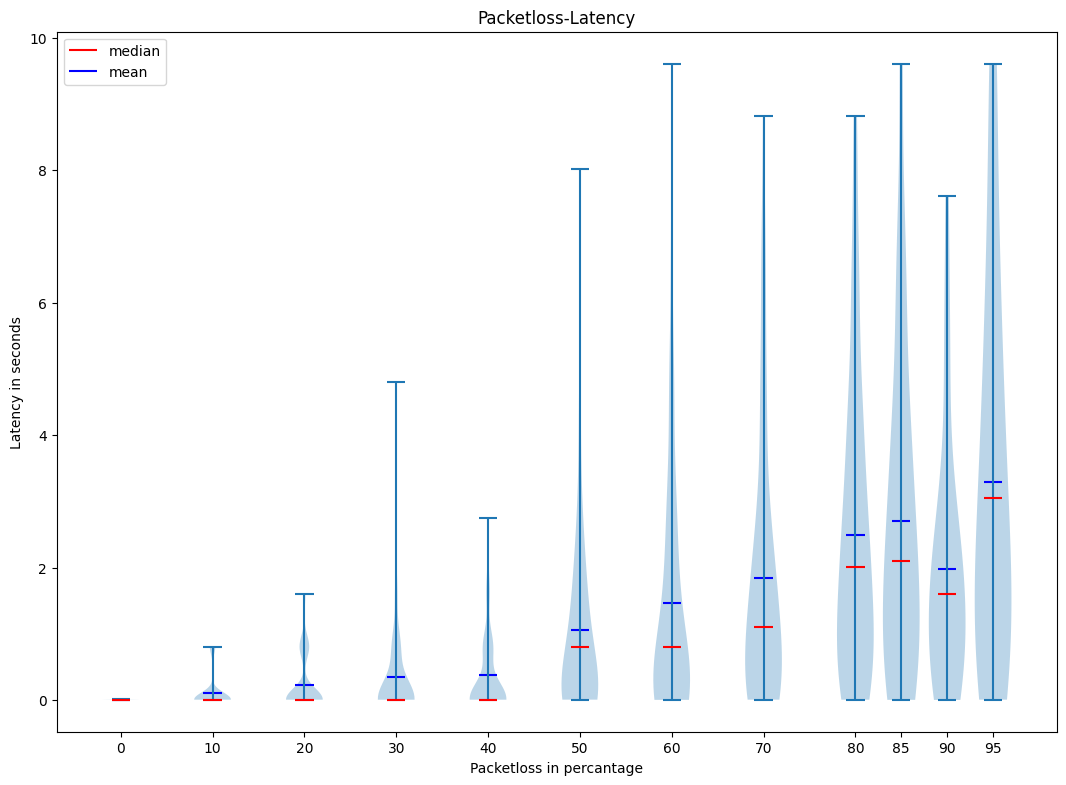
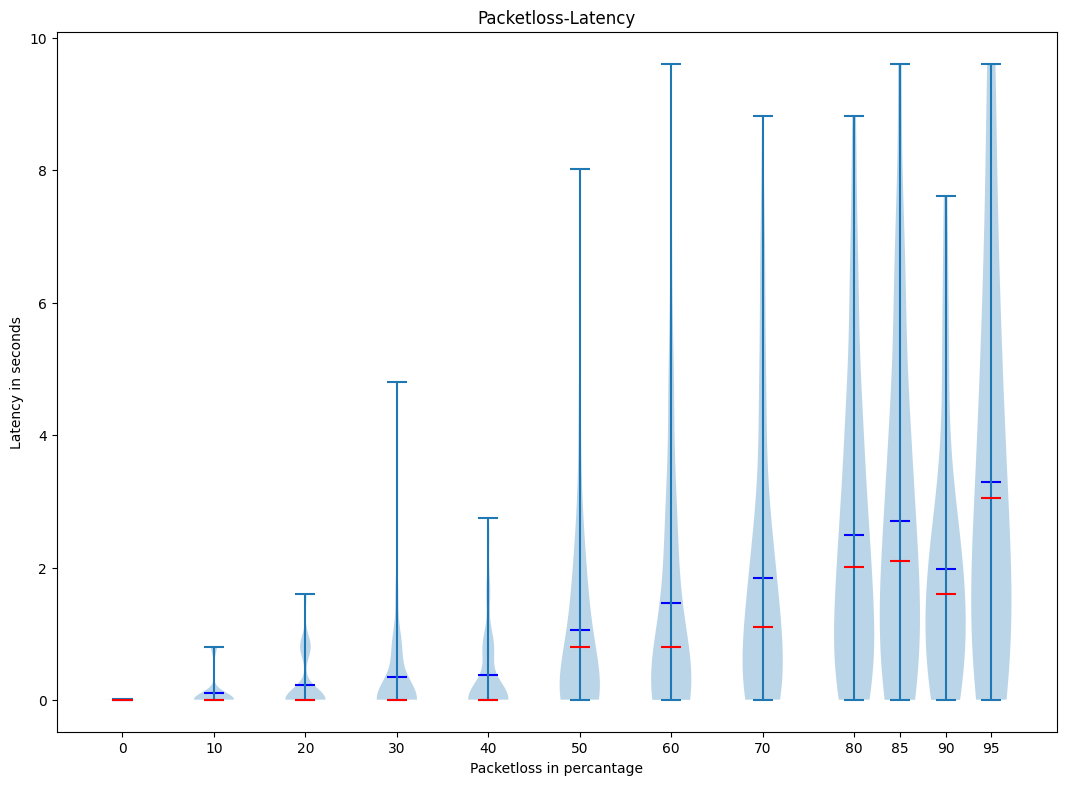
Fixed bar plot x-axis distances
Fixed bar plot x-axis distances

diff --git a/scripts/plotting/createPlots.py b/scripts/plotting/createPlots.py
@@ -137,7 +137,7 @@ ax.set_title('Packetloss-Latency')
 # Create and save Violinplot
 # bp = ax.violinplot(packetlossData)
 bp = ax.violinplot(dataset=packetlossData, showmeans=True, showmedians=True,
-                   showextrema=True, widths=4.0, positions=[0, 10, 20, 30, 40, 50, 60, 70, 80, 85, 90, 95])
+                   showextrema=True, widths=4.4, positions=[0, 10, 20, 30, 40, 50, 60, 70, 80, 85, 90, 95])
 # Mean is blue
 bp['cmeans'].set_color('b')
 # Median is red
@@ -152,7 +152,11 @@ plt.show()
 # Create bar plot for failure rate
 
 # data is defined as dictionary, key value pairs ('paketloss1' : failure rate1, ...)
-failureRateData = {'00': 0, '10': 0, '20': 0, '30': 0, '40': 0, '50': 0, '60': 0, '70': 0, '80': 0, '85': 0, '90': 0, '95': 0}
+failureRateData = {'00': 0, '10': 0, '20': 0, '30': 0, '40': 0, '50': 0,
+                   '60': 0, '70': 0, '80': 0, '85': 0, '90': 0, '95': 0}
+
+failure_rates = [0, 10, 20, 30, 40, 50, 60, 70, 80, 85, 90, 95]
+
 # The bar plot acceps a dictionary like above. This for loop extracts the saved RCODE counts and converts them to a dictionary
 index = 0
 for current_packetloss_rate in packetloss_rates:
@@ -168,16 +172,21 @@ for current_packetloss_rate in packetloss_rates:
     else:
         failureRateData[str(current_packetloss_rate)] = fail_count
     index = index + 1
-
 # print(failureRateData)
 
 courses = list(failureRateData.keys())
 values = list(failureRateData.values())
 
+print(f"courses: {courses}")
+print(f"values: {values}")
+
 fig = plt.figure(figsize=(10, 5))
 
 # creating the bar plot
-plt.bar(courses, values, color='maroon', width=0.4)
+# OLD WORKING
+# plt.bar(courses, values, color='maroon', width=0.4)
+
+plt.bar(failure_rates, values, color='maroon', width=4)
 
 # set labels
 plt.xlabel("Packetloss Rate")
